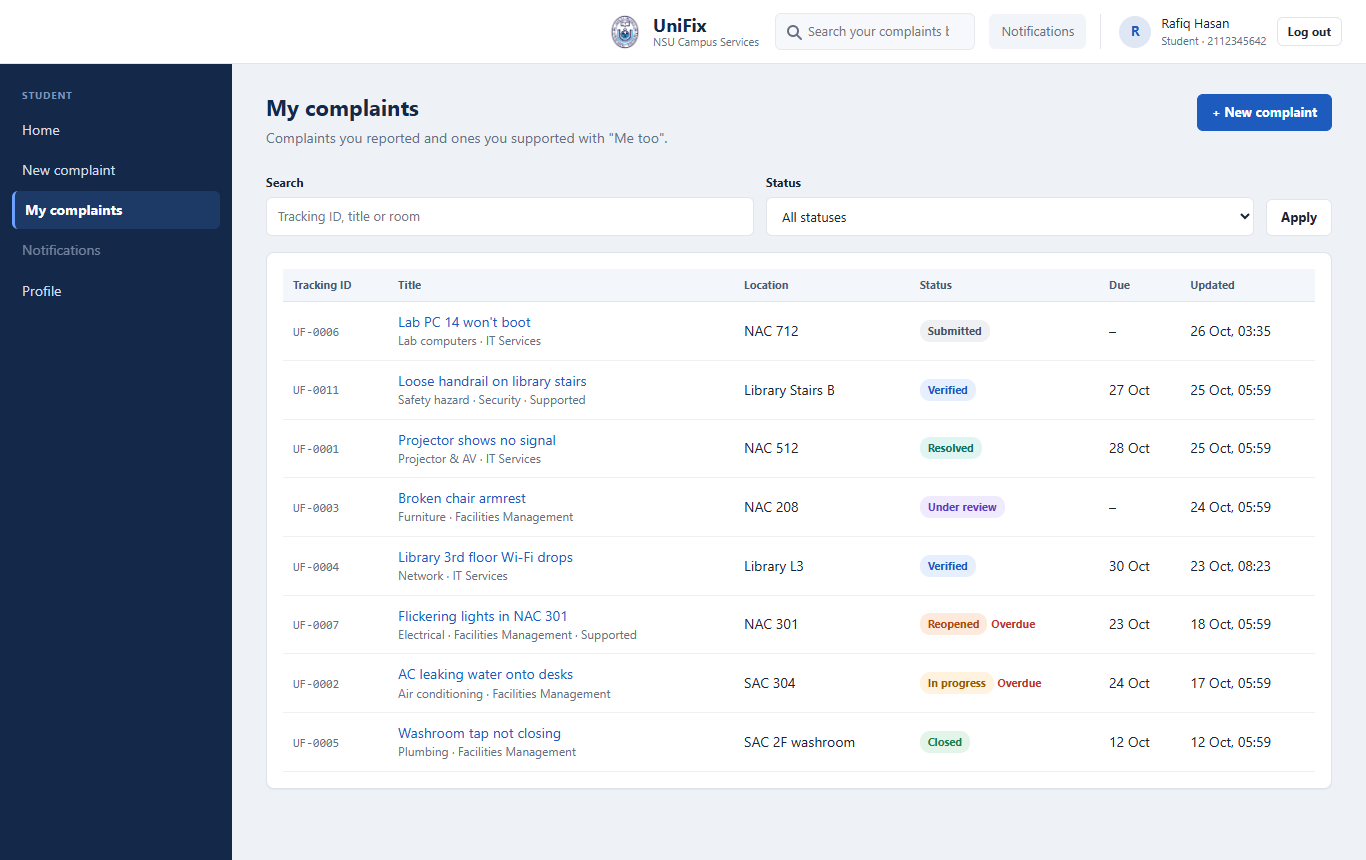
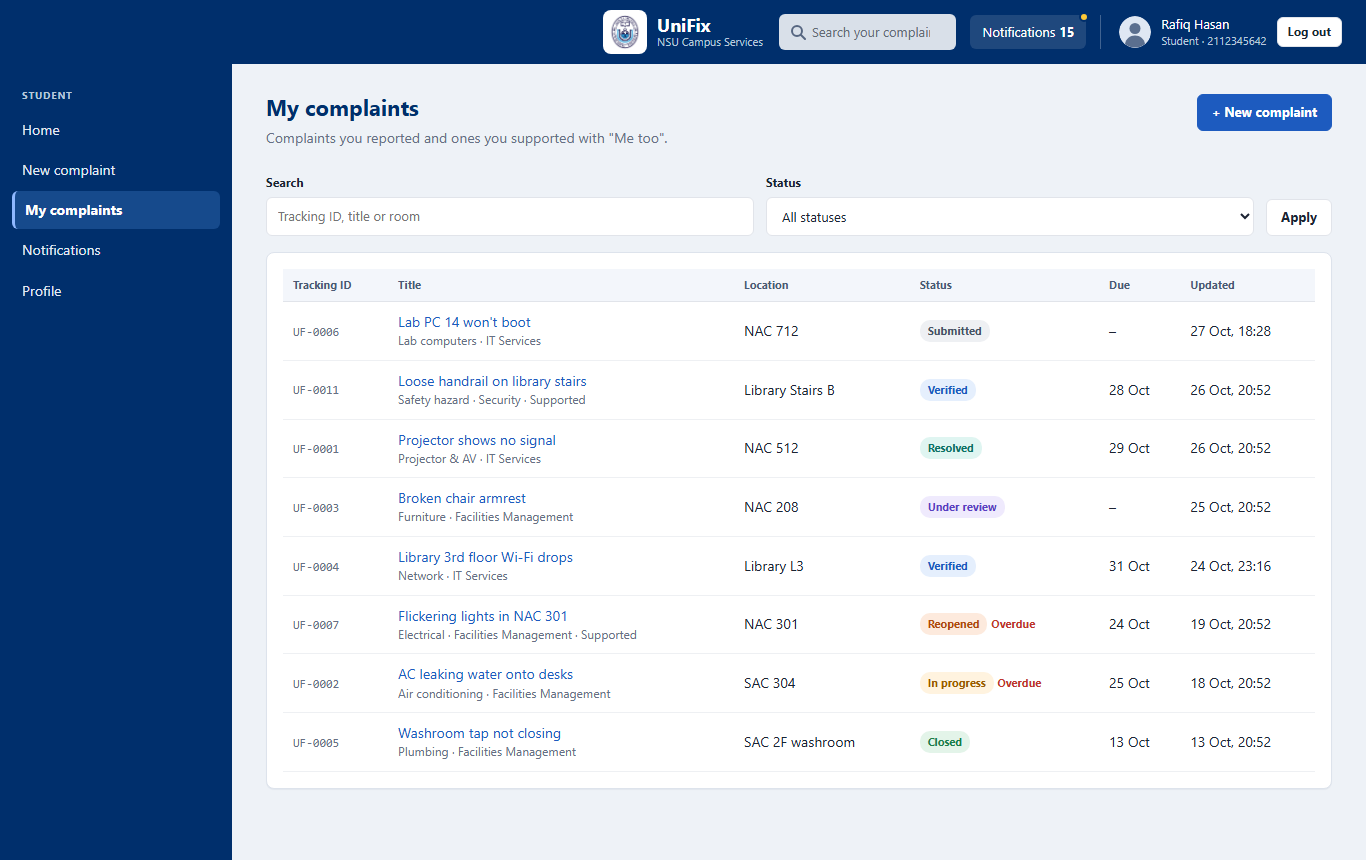
Sprint 3 handover: screenshots, walkthrough, CHANGELOG, iteration log
Screenshots retaken with the navy chrome and 17 new ones (queue, A-03
actions and errors, notifications, withdraw, phone widths); index updated.
docs/walkthroughs/sprint-3.md; 08 Iteration 3; 07 build decisions; 10
manual checklist items 15 to 24; README status.

diff --git a/docs/walkthroughs/sprint-3.md b/docs/walkthroughs/sprint-3.md
@@ -1,0 +1,138 @@
+# Sprint 3 Walkthrough
+
+Sprint goal: **full complaint lifecycle up to Resolved, run from the admin console** (`01_project_plan.md`). Features: C-05 action buttons, C-06 verify with due date, C-07 resolve with proof, C-08 history and notes, C-10 withdraw, C-11 notifications, plus CR-13 (optional gender, avatars) and CR-14 (NSU Navy). Rules: VR-02, VR-03, VR-04 (reject, resolve), VR-05, VR-16, NFR-03. Screens: A-01 (placeholder), A-02, A-03, A-06, S-01, S-04, S-05, S-06, P-02.
+
+Each section lists what a file does and the key lines both team members should be able to explain. Read the files in this order; later files build on earlier ones. Screenshots with seed data are in `docs/screenshots/` (index in its `README.md`).
+
+---
+
+## 1. Docs first
+
+Before any code: `02` (VR-16, gender in C-01/C-15, withdraw in C-11, OP-11), `03` §2 (notes also on Resolved) and §4 (withdraw notifies the department; notification messages), `04` (navy layout, avatars, bell, A-02 filters, A-03 action bar and hints, S-04 Withdraw), `05` (names below, tokens, classes, `console:attachment`), `06` and the ER diagram (`gender`), `07` decisions, `08` FB-15 to FB-18 and CR-13/CR-14, `09` I-54 to I-64, `10` TC-62 to TC-82.
+
+---
+
+## 2. Gender and avatars (CR-13, VR-16)
+
+### `accounts/models.py`
+- `User.Gender` choices `male`, `female`, `other`, `prefer_not_to_say`; the field defaults to `prefer_not_to_say`. Migration `accounts/migrations/0002_user_gender.py` (generated).
+- `avatar_kind` (property): `male`, `female` or `neutral`. **Templates use it only for the signed-in user's own avatar**; every other person is shown with `kind="neutral"`. That is the whole of VR-16.
+- `can_act_on_complaint(complaint)`: Super Admin always; a Dept Admin only for their department. Every workflow method and `allowed_actions()` asks this one question (VR-02).
+
+### `accounts/forms.py`
+- `OptionalGenderMixin`: makes the field optional and turns an empty answer into `prefer_not_to_say` (`clean_gender`). Without it, a form posted without gender would fail, because the model field is not blank. Used by `RegisterForm` and `ProfileForm`.
+
+### `accounts/admin.py`
+`gender` is deliberately missing from `list_display`, `list_filter` and `fieldsets`, so the Django admin never shows it (TC-63).
+
+### `static/img/avatars/*.svg`, `templates/partials/avatar.html`
+Three hand-drawn 64×64 SVGs (circle background, head, shoulders; hair differs). The partial is one `<img>`: `{% static 'img/avatars/'|add:kind|add:'.svg' %}`. Included as `with kind=user.avatar_kind` (own top bar, own profile) or `with kind="neutral"` (A-03 reporter card).
+
+---
+
+## 3. NSU Navy (CR-14)
+
+### `static/css/unifix.css`
+- Tokens (`05` §6): `--navy: #002f6c`, `--navy-2`, `--on-navy`, `--on-navy-muted` (light blue-grey), `--gold: #fec937`.
+- `.topbar` is now navy; `.topbar-logo` gets a white rounded tile (`padding: 4px; background: var(--on-navy); border-radius: 8px`) so the blue NSU logo stays readable.
+- Gold is only an accent: `.tab:has(input:checked)` keeps its blue text and background and gets a gold underline; `.bell-dot` is gold on navy, next to the unread number, which is the real cue (I-64).
+- New sections 11c (console) and 11d (notifications); see section 7.
+
+---
+
+## 4. Workflow methods (`complaints/models.py`)
+
+The most important file this sprint. Read it together with `03` §2 and §4.
+
+**Constants**
+- `ALLOWED_FROM`: action slug → statuses it may start from. This dictionary *is* the transition table of `03` §2 (VR-03). `NOTE_STATUSES` = open statuses + `resolved`.
+- `ADMIN_ACTIONS`: the five A-03 buttons in order. `STATUS_STEP`, `ACTION_STEP`, `PREVIOUS_ACTION`: positions along the main path, used only for the hints.
+- `PROOF_FILE_TYPES` and `check_proof_file()`: images only, then the normal VR-07 check (`check_attachment_file`) for size and real content.
+
+**One method per button**, all the same shape:
+```python
+def start_review(self, actor):
+    with transaction.atomic():
+        self._check_action(actor, "start_review")   # VR-02, then VR-03
+        self.status = self.Status.UNDER_REVIEW
+        self.save(update_fields=["status", "updated_at"])
+        self._record(actor, ComplaintUpdate.Action.START_REVIEW, self.Status.SUBMITTED)
+```
+- Input rules are checked **before** the transaction: `verify()` needs a priority from `Priority.values` and `due_date > timezone.localdate()` (VR-05); `reject()` a non-blank reason and `resolve()` a non-blank note (VR-04).
+- `_check_action()` → `can_act_on_complaint()` → `_lock_and_check()` → `_lock_status()`. `_lock_status()` re-reads the status with `select_for_update()` inside the transaction: if two admins press buttons at the same moment, the second one sees the new status and is refused instead of acting on an old one.
+- `withdraw(student)`: only the reporter, only while Submitted (C-10). `add_note()`: not a status change, so it checks `NOTE_STATUSES` itself.
+- `resolve()` writes the proof photo as `Attachment(kind=proof_of_fix)`. Like `submit()`, it remembers the written file and deletes it if anything fails, because a rollback does not delete files (TC-70).
+
+**`_record()`**: one history row (`from_status`, `to_status`, `note`, `is_internal`) and the notifications of `03` §4:
+- Reporter: "UF-… is now <status>"; Reject: `fit_message("UF-… was rejected: ", reason)`, shortened with "…" to 255 characters; Resolve: "UF-… was resolved. Please confirm or reopen by <date>" (Dhaka date of `resolved_at` + 7 days, the same window as `can_reopen`).
+- Withdraw: the department's active admins (`department_admins()`). Public note: the reporter. Internal note: nobody.
+- The actor is never a recipient, because admins act and the reporter is a student.
+
+**`allowed_actions(user)`** returns five dicts `{slug, label, enabled, hint}` (empty list if the user cannot act). `_disabled_hint()`: final status → "Not available: complaint is X"; a step still ahead → "Available after <previous button>"; a step passed → "Done"; Reject after Verify → "Not available" (it was not done, the complaint was verified instead).
+
+`submit()` now uses `department_admins()` and `_notify()` too; its behaviour is unchanged (TC-37).
+
+---
+
+## 5. Notifications (`notifications/`)
+
+- `context_processors.py` `unread_count`: added to `TEMPLATES` in `unifix/settings.py`, so every template has `unread_count` (one `COUNT` query per page). The top bar bell uses it.
+- `views.py`: `notification_list` (own notifications only, newest first; opening the page reads nothing) and `mark_all_read` (`@require_POST`, updates only `request.user.notifications`). `complaint_link()` decides where a notification leads: S-04 for students, A-03 for admins. `with_links()` adds that link to each row and is reused by S-01.
+- `urls.py`: `notifications:list`, `notifications:mark_all_read` (`05` §4), included at `/notifications/` in `unifix/urls.py`.
+- `templates/notifications/list.html`: shared by S-05 and A-06; unread rows get `notification-unread` (blue background and a left border, plus the word "Unread").
+
+---
+
+## 6. Student pages (`complaints/views.py`, templates)
+
+- `home`: `latest_notifications` (5 newest, with links).
+- `complaint_action` sends `withdraw` to `withdraw()`, which loads the complaint with `get_complaint_for_user()` (404 for strangers) and calls `complaint.withdraw(request.user)`; a supporter is refused by the model with a message.
+- `send_attachment(complaint, pk)`: the file-sending code from Sprint 2, moved into one function so `student:attachment` and `console:attachment` share it (`07` keep-in-view "Admin file access"). The callers check permissions first.
+- `templates/student/complaint_detail.html`: Withdraw is a `<details class="action-form">` whose `<summary>` looks like a button; opening it shows the confirmation and the real POST button. No JavaScript.
+- `templates/student/attachment_list.html`: `{% url url_name|default:'student:attachment' … %}`, so A-03 can include it with `url_name="console:attachment"`.
+
+---
+
+## 7. Admin console (`console/`)
+
+### `console/forms.py`
+`VerifyForm` (date input with `min` = tomorrow; `clean_due_date` checks again), `RejectForm`, `StartWorkForm`, `ResolveForm` (`accept` limited to the proof types), `NoteForm` (public/internal radios). `ACTION_FORMS` maps URL slugs to forms. The forms give friendly messages; the model methods are still the real check.
+
+### `console/views.py`
+- `visible_complaints(user)`: own department or all (VR-02).
+- `queue` (A-02): every filter is a GET parameter. `status` defaults to `open`; unknown values fall back to "all". The overdue filter is the `is_overdue` rule written as a database filter. `?q=` matches tracking ID, title, room and the reporter's name, student ID and email. `sort=due` uses `F("due_date").asc(nulls_last=True)`, so unverified complaints (no due date) come last. `annotate(supporters=Count("supports"))` avoids one count query per row; the template shows `supporters|add:1` (students affected).
+- `history_entries()`: all history rows with real names (admin pages may show names, `07`); consecutive Me too rows are merged into one entry with several names.
+- `render_detail()`: builds the page. Each button gets an empty form, or the bound form with errors if that action just failed (`open_action`). If the failed action's button is disabled by now (someone else acted first), its error goes to `bar_errors` above the action bar, because its form is no longer shown.
+- `complaint_action`: `@require_POST`; unknown slugs (including `reassign` until Sprint 4) → 404; `get_complaint_for_user()` → 404 for another department. Invalid form or `ValidationError` → the page again with status 400 and that form open; success → message and redirect (Post/Redirect/Get).
+- `attachment`: the console twin of `student:attachment` (NFR-03).
+
+### Templates
+- `console/queue.html`: the filter form (`filters`, `filter-check`), the table in `table-scroll`; overdue rows get `row-overdue`.
+- `console/complaint_detail.html`: the action bar loops over `buttons`: disabled → `<button disabled>` plus `action-hint`; Start review → a plain POST form; others → `<details class="action-form">` with `{% include "console/action_fields.html" %}`. `.action:has(details[open]) { flex-basis: 100% }` gives an open form its own row. Reporter card: neutral avatar, counts, and a disabled A-05 link (`link-disabled`) until Sprint 4. Internal notes have `timeline-internal`.
+- `console/dashboard.html`: placeholder with "Go to complaint queue".
+- `partials/sidebar.html`: Complaint queue and Notifications are now links; the queue stays highlighted on A-03 and after a failed action.
+
+---
+
+## 8. Seed data (`complaints/management/commands/seed_demo.py`)
+
+- Every step now runs through the real methods (`run_step()`), so the demo data is exactly what the app writes. Confirm and reopen are still written directly (`student_step()`) until Sprint 4.
+- **`clock_at(when)`**: the methods stamp times with `timezone.now()`. `mock.patch("django.utils.timezone.now", return_value=when)` makes the code inside believe it is that moment, so `created_at`, `verified_at`, `resolved_at`, history and notification times and the "reopen by" date all agree. Without it, every step would happen "now" and the rows would have to be rewritten afterwards (the Sprint 2 approach).
+- Due dates are counted from the real today (`today` is taken before the clock is set), so overdue examples stay overdue; at the time of each Verify they were still in the future, so VR-05 holds.
+- UF-0001 (projector, NAC 512) is resolved with a proof photo for the demo.
+
+---
+
+## 9. Tests
+
+`accounts/tests.py` TC-62, TC-63; `complaints/tests.py` TC-64 to TC-82 (see `10_test_plan.md`).
+- `WorkflowFixtures.at_status()` puts a complaint straight into a status with `queryset.update()` (test set-up only), so every transition can be tried from every status (TC-65).
+- TC-70 forces a failure with `mock.patch.object(Notification.objects, "bulk_create", side_effect=RuntimeError)` and compares the folder before and after (tests share one temporary `MEDIA_ROOT`, and tracking IDs repeat between tests).
+- Page tests check status codes (403 wrong role, 404 other department, 405 GET on actions, 400 failed action) and that the right form is open.
+
+---
+
+## 10. Docs changed this sprint
+
+- Doc-first commit (CR-13, CR-14): `01`, `02`, `03`, `04`, `05`, `06`, `07`, `08`, `09`, `10`, ER diagram.
+- During the build: `03` §4 notification messages; `05` `ALLOWED_FROM`, `NOTE_STATUSES`, `department_admins()`, console templates and classes, seed `clock_at()`; `02` OP-11; `08` FB-17, FB-18, Iteration 3; `07` build decisions; `10` TC-62 to TC-82 and checklist items 15–24; screenshots; `CHANGELOG.md`; this walkthrough.

diff --git a/docs/screenshots/README.md b/docs/screenshots/README.md
@@ -1,6 +1,6 @@
-# UniFix Screenshots (Sprint 2)
+# UniFix Screenshots (Sprint 3)
 
-Evidence of the current interface, taken from the local development server with `seed_demo` data (Chrome, 1366 px wide; phone shots at 375 px). Branch `feature/sprint-2`, October 2026.
+Evidence of the current interface, taken from the local development server with fresh `seed_demo` data (headless Chrome, 1366 px wide; phone shots at 375 px, 2x). Branch `feature/sprint-3`, October 2026. Since Sprint 3 every page has the NSU Navy top bar and sidebar (CR-14), so the Sprint 2 shots were retaken; only the Django admin shots (`admin/04` to `admin/07`) are from Sprint 2, because the Django admin is unchanged.
 
 Demo accounts: see the README ("Demo accounts").
 
@@ -8,16 +8,16 @@ Demo accounts: see the README ("Demo accounts").
 
 | File | Shows |
 |---|---|
-| `public/01-login-student-tab.png` | P-01 Login, Student tab (default) with the register link |
+| `public/01-login-student-tab.png` | P-01 Login, Student tab (default) with the register link; gold underline accent on the active tab (CR-14) |
 | `public/02-login-staff-tab.png` | P-01 Login, Staff tab: "Staff accounts are created by the Super Admin" |
 | `public/03-login-wrong-tab-refused.png` | A student account on the Staff tab is refused (VR-15) |
-| `public/04-register.png` | P-02 Student registration |
+| `public/04-register.png` | P-02 Student registration with the optional gender field (CR-13) |
 
-## Student (S-01 to S-04, S-06), as Rafiq Hasan
+## Student (S-01 to S-06), as Rafiq Hasan
 
 | File | Shows |
 |---|---|
-| `student/01-home.png` | S-01 Home: cards, recent complaints, needs your action |
+| `student/01-home.png` | S-01 Home: cards, recent complaints, needs your action, latest notifications (Sprint 3) |
 | `student/02-my-complaints.png` | S-03 My complaints: own and supported, status badges, overdue flags |
 | `student/03-my-complaints-filtered.png` | S-03 filtered by status (In progress) |
 | `student/04-new-complaint-step1.png` | S-02 step 1: category (grouped by department), building, room |
@@ -25,22 +25,37 @@ Demo accounts: see the README ("Demo accounts").
 | `student/06-new-complaint-own-match.png` | S-02 duplicate check: own complaint labelled "You reported this" (VR-09) |
 | `student/07-new-complaint-step2.png` | S-02 step 2: location read-only with Change; title, description, files |
 | `student/08-new-complaint-file-refused.png` | A PDF renamed `.jpg` is refused; the text is kept (VR-07) |
-| `student/09-detail-reporter-full-view.png` | S-04 full view for the reporter: description, evidence, timeline by department |
+| `student/09-detail-reporter-full-view.png` | S-04 full view for the reporter: evidence, proof of fix (C-07), timeline by department |
 | `student/10-detail-supporter-limited-view.png` | S-04 limited view for a supporter: no description, files or names (VR-01) |
-| `student/11-profile.png` | S-06 Profile and password change |
+| `student/11-profile.png` | S-06 Profile with own avatar and the optional gender field (CR-13, VR-16) |
 | `student/12-phone-home.png` | S-01 at phone width (NFR-05) |
 | `student/13-phone-duplicate-match.png` | S-02 duplicate check at phone width |
+| `student/14-notifications.png` | S-05 Notifications: unread highlighted, Mark all as read, bell count (C-11) |
+| `student/15-detail-withdraw-confirm.png` | S-04 Withdraw confirmation on a Submitted complaint (C-10) |
+| `student/16-phone-detail-proof-of-fix.png` | S-04 with proof of fix at phone width |
+| `student/17-phone-notifications.png` | S-05 at phone width |
 
-## Admin (A-01 placeholder, Django admin)
-
-The admin console (queue, actions) arrives in Sprint 3; these show what exists now.
+## Admin (A-01 to A-03, A-06, Django admin)
 
 | File | Shows |
 |---|---|
-| `admin/01-dept-admin-dashboard.png` | A-01 Dept Admin (IT Services) placeholder dashboard |
+| `admin/01-dept-admin-dashboard.png` | A-01 Dept Admin (IT Services) placeholder with "Go to complaint queue" (content in Sprint 4) |
 | `admin/02-dept-admin-student-page-403.png` | A Dept Admin opening a student page gets the friendly 403 |
-| `admin/03-super-admin-dashboard.png` | A-01 Super Admin placeholder dashboard (all departments) |
-| `admin/04-django-admin-home.png` | `/django-admin/` home (C-16) |
-| `admin/05-django-admin-complaints.png` | Seeded complaints, read-only list |
-| `admin/06-django-admin-complaint-readonly.png` | One complaint with its files, history and supporters, view only |
-| `admin/07-django-admin-categories.png` | Categories and their routing departments |
+| `admin/03-super-admin-dashboard.png` | A-01 Super Admin placeholder (all departments) |
+| `admin/04-django-admin-home.png` | `/django-admin/` home (C-16) *(Sprint 2)* |
+| `admin/05-django-admin-complaints.png` | Seeded complaints, read-only list *(Sprint 2)* |
+| `admin/06-django-admin-complaint-readonly.png` | One complaint with its files, history and supporters, view only *(Sprint 2)* |
+| `admin/07-django-admin-categories.png` | Categories and their routing departments *(Sprint 2)* |
+| `admin/08-queue-dept-admin.png` | A-02 queue (IT Services): open complaints, soonest due first, filters |
+| `admin/09-queue-overdue-filter.png` | A-02 "Overdue only" (Facilities Management): overdue rows flagged |
+| `admin/10-queue-super-admin-all.png` | A-02 for the Super Admin: all departments and statuses, department filter |
+| `admin/11-detail-submitted-action-bar.png` | A-03 on a Submitted complaint: Start review enabled, other buttons with "Available after …" hints; reporter card with the neutral avatar (VR-16) |
+| `admin/12-detail-verify-form-open.png` | A-03 Verify inline form (priority, due date) opened without JavaScript |
+| `admin/13-detail-verify-error.png` | Verify with today's date refused; the form stays open with the error (VR-05) |
+| `admin/14-detail-resolve-form-open.png` | A-03 Mark resolved form (note, optional proof photo) on an overdue complaint; grouped Me too history |
+| `admin/15-detail-resolved-proof-history.png` | A-03 after Resolve: proof of fix through `console:attachment`, history with names |
+| `admin/16-detail-internal-note-add-note.png` | A-03 with an internal note (marked "Internal") and the Add note form (public or internal) |
+| `admin/17-detail-super-admin-other-department.png` | The Super Admin on a Security complaint: full action bar (C-13), own note in the history |
+| `admin/18-notifications.png` | A-06 Notifications for the Facilities admin |
+| `admin/19-phone-queue.png` | A-02 at phone width: the table scrolls inside its card |
+| `admin/20-phone-detail-actions.png` | A-03 at phone width with the Mark resolved form open |

diff --git a/docs/07_decision_log.md b/docs/07_decision_log.md
@@ -53,6 +53,9 @@
 | Oct 2026 | Proof of fix is one image (JPG, PNG, WEBP; 15 MB; content checked) | C-07 asks for a photo; same file checks as VR-07 |
 | Oct 2026 | A-02 shows open complaints by default, sorted by due date; search (`?q=`) built now, top-bar search stays disabled until C-18 | The queue is a work list; `?q=` is reused by C-18 in Sprint 4 |
 | Oct 2026 | Sprint 3 seed uses the real action methods; confirm and reopen steps keep direct writes until Sprint 4 | Those methods are Sprint 4 work (C-09) |
+| Oct 2026 | The seed runs each step with the clock set to that step's time (`clock_at()`) | The methods stamp times with `timezone.now()`; setting the clock keeps every time stamp, notification and "reopen by" date consistent without rewriting rows afterwards |
+| Oct 2026 | Reject and Resolved notifications carry the reason and the reopen deadline; the reason is shortened with "…" to fit 255 characters | The student learns why, or until when they can reopen, without opening the complaint (`03` §4) |
+| Oct 2026 | An action that is no longer possible when posted (e.g. another admin acted first) shows its error above the A-03 action bar; the methods lock the complaint row while checking the status | Its button is disabled by then, so the form is not shown; two admins cannot both act on an old status |
 
 ## Keep in View
 
@@ -86,4 +89,5 @@ Instructor feedback and iteration changes are tracked in `08_iteration_log.md`.
 | Oct 2026 | Sprint 1 review: login type tabs and VR-15 (CR-10), three-zone top bar (CR-11), review fixes I-31 to I-35 (error pages, fast test hasher) | 02, 04, 05, 07, 08, 09, 10 |
 | Oct 2026 | Sprint 2 pre-build doc fixes (CR-12, I-36 to I-52): two-step S-02, limited view fields, 5-file limit, private files, `submit()`, new properties and URL, seed plan | 01, 02, 03, 04, 05, 06, 07, 08, 09, 10 |
 | Oct 2026 | Sprint 2 review notes: layout density and logic-gap keep-in-view rows (FB-13); optional gender and default avatars planned for Sprint 3 (FB-14, CR-13); screenshots folder | 00, 05, 07, 08 |
+| Oct 2026 | Sprint 3 build: notification messages for Reject and Resolved (`03` §4); OP-11 email copies (FB-18); FB-17 Reject reason dropdown as a Sprint 4 idea; `ALLOWED_FROM`, `NOTE_STATUSES`, `department_admins()`, console templates and Sprint 3 classes in `05`; TC-62 to TC-82 and the Sprint 3 manual checklist in `10`; Iteration 3 in `08`; screenshots retaken | 02, 03, 04, 05, 07, 08, 10, screenshots |
 | Oct 2026 | Sprint 3 doc-first changes: optional gender and avatars, VR-16 (CR-13); NSU Navy chrome and tokens (CR-14); login protection kept in view (FB-16); Sprint 3 decisions; fixes I-54 to I-64 | 01, 02, 03, 04, 05, 06, 07, 08, 09, 10, `diagrams/er_diagram.*` |

diff --git a/CHANGELOG.md b/CHANGELOG.md
@@ -3,7 +3,19 @@
 Format: [Keep a Changelog](https://keepachangelog.com). Versions match Git tags. Reasons for changes are in `docs/08_iteration_log.md`.
 
 ## [Unreleased]
+### Added
+- Sprint 3: optional gender at registration and on the profile with three SVG avatars; gender is only ever seen by its owner, everyone else sees the neutral avatar (CR-13, VR-16; migration `accounts/0002`).
+- Workflow methods on `Complaint`: `start_review`, `verify` (priority, future due date), `reject` (reason), `start_work`, `resolve` (note, optional proof photo, file removed if it fails), `withdraw`, `add_note` (public or internal; also on Resolved). Each checks who acts (VR-02) and the transition (VR-03), and writes history and notifications in one transaction. `allowed_actions(user)` with disabled-button hints, `can_add_note()`, `User.can_act_on_complaint()`.
+- Admin console: A-02 queue (own department, all for the Super Admin) with status, category, priority, overdue and department filters, search and sort; A-03 detail with the five action buttons, inline `<details>` forms, Add note, reporter card and full history; `console:attachment`.
+- Notifications: S-05/A-06 list with Mark all as read, bell with unread count on every page, latest notifications on S-01 (C-11). Reject and Resolved messages carry the reason and the "reopen by" date.
+- S-04 Withdraw with a confirmation (C-10).
+- 21 tests (TC-62 to TC-82); 82 in total. Screenshots retaken; `docs/walkthroughs/sprint-3.md`.
+
 ### Changed
+- NSU Navy top bar and sidebar with white text, logo on a white tile, gold as a small accent (CR-14).
+- `seed_demo` runs every step through the real methods with the clock set to the step's time; the resolved projector complaint has a proof photo. Confirm and reopen remain direct writes until Sprint 4.
+- Complaint files are sent by one shared helper, `send_attachment()`, for both `student:attachment` and `console:attachment`.
+- Docs, Sprint 3 build: notification messages in `03` §4; OP-11 (email copies, FB-18); FB-17 (Reject reason dropdown) as a Sprint 4 idea; manual checklist items 15–24.
 - Docs, Sprint 3 doc-first (CR-13, CR-14, FB-15, FB-16): optional gender and avatars with VR-16; NSU Navy chrome and new design tokens; Sprint 3 decisions in `07`; withdraw notifies department admins; notes allowed on Resolved; `console:attachment`; `allowed_actions(user)` as a method; login protection kept in view; fixes I-54 to I-64; ER diagram shows `gender`.
 
 ## [0.3-sprint2] - 2026-10

diff --git a/docs/10_test_plan.md b/docs/10_test_plan.md
@@ -177,6 +177,19 @@ From Sprint 2, as a student (`rafiq.hasan@northsouth.edu`):
 13. Open another student's complaint by URL (e.g. `UF-0008`) → 404. Open a file's `/media/...` path → 404.
 14. Repeat 9–12 at 375 px: no sideways page scroll; tables scroll inside their cards.
 
+From Sprint 3 (fresh database, `seed_demo`):
+
+15. Every page: navy top bar and sidebar, NSU logo on a white tile, white wordmark, light blue-grey subtitle; gold only on the active login tab underline and the unread dot (CR-14).
+16. Profile: set gender to Female, save; the own avatar changes in the top bar and on the profile. As an admin, the same student's reporter card on A-03 shows the neutral avatar and no gender (VR-16).
+17. As `it.admin@northsouth.edu`: A-02 shows only IT complaints, open by default, soonest due first; try each filter, `?q=` with a student name, sort by Last updated. As `fac.admin@northsouth.edu`, Overdue only shows UF-0002 and UF-0007 with flagged rows.
+18. A-03 on UF-0006 (Submitted): only Start review is enabled; the others show "Available after …". Press it; the page shows Under review and Verify/Reject open their forms. Verify with today's date: the form stays open with "The due date must be later than today." Verify with tomorrow, Start work, Mark resolved with a JPG: proof photo shown; the student sees "UF-0006 was resolved. Please confirm or reopen by <date>".
+19. Reject on an Under review complaint with a long reason: the student's notification ends with "…"; the history keeps the full reason.
+20. Add note, public and internal: the student sees only the public one (timeline and a notification); the internal one is marked "Internal" on A-03.
+21. As the reporter of a Submitted complaint: Withdraw → confirmation → Withdraw complaint; the department admin gets "UF-… was withdrawn by the student". The button is gone once withdrawn and never shown on other statuses.
+22. Bell: the number matches the unread notifications; Mark all as read clears it and hides the dot. Notifications link to S-04 for students and A-03 for admins.
+23. The Super Admin can act on any department's complaint; another department's admin gets 404 on A-03 and on its files (`console:attachment`).
+24. Repeat 17, 18 and 22 at 375 px: no sideways page scroll; the open action form fits the screen.
+
 ## 5. Planned for Later Sprints
 
 | Sprint | Rules to cover |

diff --git a/docs/08_iteration_log.md b/docs/08_iteration_log.md
@@ -108,8 +108,8 @@ Goal: full complaint lifecycle up to Resolved, run from the admin console.
 Feedback received: FB-15 (NSU colours), FB-16 (login protection, kept in view); FB-17 (Reject reason dropdown, Sprint 4 idea), FB-18 (email copies, OP-11) during the build. Notification messages for Reject and Mark resolved reworded (`03` §4)
 Change requests: CR-13, CR-14 (doc-first commit before coding)
 Foundation touched (03/05)? yes, 03 §2, §4 and 05 §1–7 → ER diagram (`User.gender`) and class blueprint enumerations updated
-Built / changed: (in progress)
-Carried over to next iteration: (in progress)
+Built / changed: `User.gender` (migration `accounts/0002`), `avatar_kind`, `can_act_on_complaint()`, three SVG avatars; NSU Navy chrome and tokens; workflow methods `start_review`, `verify`, `reject`, `start_work`, `resolve` (optional proof photo), `withdraw`, `add_note`, with `allowed_actions(user)` and `can_add_note()`; A-02 queue with filters, search and sort; A-03 detail with action bar, inline `<details>` forms, Add note, reporter card and grouped history; `console:attachment` sharing `send_attachment()`; S-05/A-06 notifications, mark all read, bell count (context processor), S-01 latest notifications; S-04 Withdraw; `seed_demo` on the real methods (clock set to each step's time); 21 tests (TC-62 to TC-82, 82 in total); screenshots retaken with the navy chrome
+Carried over to next iteration: Sprint 4 scope (`01`): `confirm()`, `reopen()`, `reassign()`, `rate()` and their buttons (the seed's confirm and reopen steps then switch to the methods); A-01 dashboard content; A-04/A-05 student records (the A-03 reporter-card link is disabled until then); SA-01 to SA-03; top-bar search (C-18). Sprint 4 ideas: FB-17 (Reject reason dropdown). Keep in view: FB-16 (login protection), OP-11 (email copies)
 Retrospective: To be written after the first full draft.
 
 ## 7. Suggested GitHub Practice

diff --git a/README.md b/README.md
@@ -5,7 +5,7 @@ Students report campus issues with photo, video or PDF evidence; complaints are 
 
 **Team:** Sami Mohammad Abdullah, Ahnaf Tazwar Unmesh
 **Stack:** Django, Django templates, vanilla CSS/JS, SQLite (development)
-**Status:** Sprint 1 (accounts, roles, login/register, profile, setup) released as `v0.2-sprint1`; Sprint 2 (complaint submission and student pages) in progress on `feature/sprint-2`
+**Status:** Sprint 1 released as `v0.2-sprint1`; Sprint 2 (complaint submission and student pages) released as `v0.3-sprint2`; Sprint 3 (admin console and complaint lifecycle up to Resolved) in progress on `feature/sprint-3`
 
 ## Documentation
 
